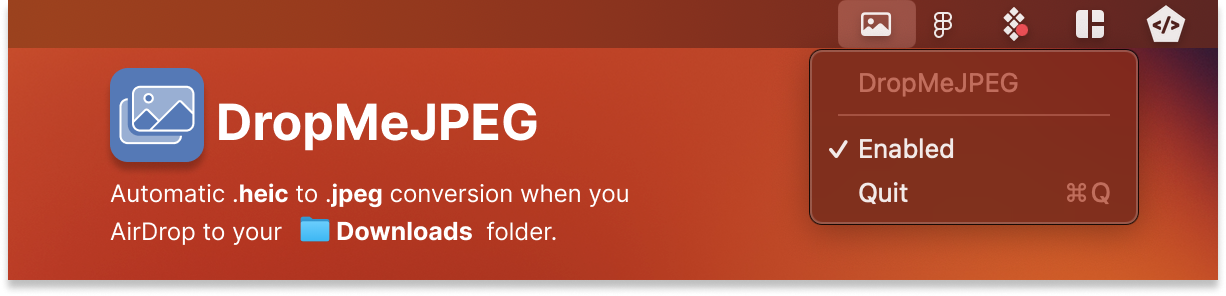
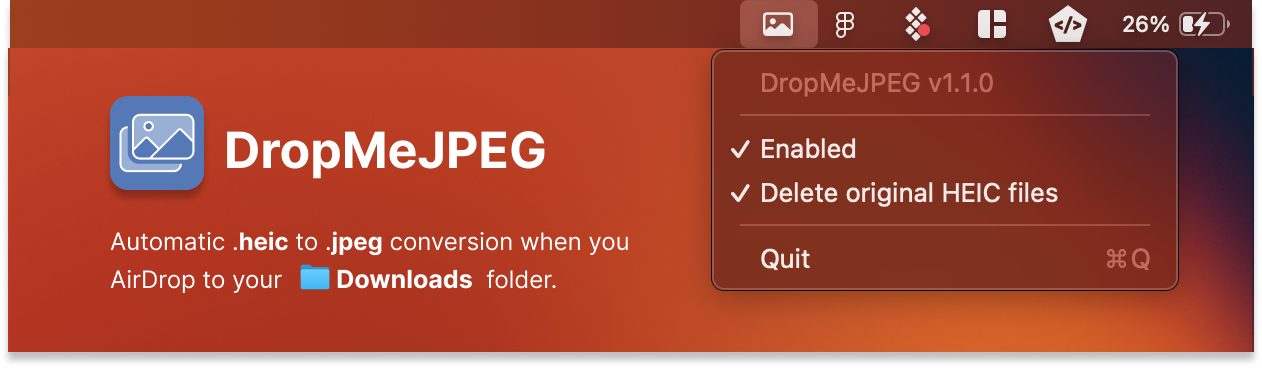
feat(v1.1.0): ability to keep original `.heic` files

Changed region(s): [[0.0, 0.0, 1.0, 0.973], [0.062, 0.2128, 0.4649, 0.5777], [0.062, 0.6081, 0.5269, 0.8209]]

diff --git a/DropMeJPEG/DropMeJPEGApp.swift b/DropMeJPEG/DropMeJPEGApp.swift
@@ -15,13 +15,19 @@ struct DropMeJPEGApp: App {
     
     var body: some Scene {
         MenuBarExtra("DropMeJPEG", systemImage: "photo") {
-            Text("DropMeJPEG").bold()
+            Text("DropMeJPEG v\(Bundle.main.infoDictionary?["CFBundleShortVersionString"] as? String ?? "0.0.0")")
             Divider()
             
             Toggle(isOn: $folderMonitor.isEnabled) {
                 Text(folderMonitor.isEnabled ? "Enabled" : "Disabled")
             }
             
+            Toggle(isOn: $folderMonitor.shouldDeleteOriginal) {
+                Text("Delete original HEIC files")
+            }
+            .disabled(!folderMonitor.isEnabled)
+            
+            Divider()
             Button("Quit") {
                 NSApplication.shared.terminate(nil)
             }.keyboardShortcut("q")
@@ -36,7 +42,8 @@ class FolderMonitor: ObservableObject {
             isEnabled ? startMonitoring() : stopMonitoring()
         }
     }
-    @Published var shouldDeleteOriginalInputFile = false
+    @Published var delayAfterWrite: TimeInterval = 4
+    @Published var shouldDeleteOriginal: Bool = true
     private var folderURL = FileManager.default.urls(for: .downloadsDirectory, in: .userDomainMask).first!
     private var monitor: DispatchSourceFileSystemObject?
     private var fileDescriptor: CInt = -1
@@ -83,23 +90,33 @@ class FolderMonitor: ObservableObject {
     
     /// There are some folder changes, this function will handle detecting new HEIC files and converting them to JPEG.
     private func handleFolderChanges() {
-        guard let currentFiles = try? FileManager.default.contentsOfDirectory(atPath: folderURL.path) else { return }
+        print("\n⚡Folder changed... waiting for \(delayAfterWrite) seconds for AirDrop to finish writing any files.")
+        sleep(UInt32(delayAfterWrite)) // Wait for the file to be fully written
+        
+        guard let currentFiles = try? FileManager.default.contentsOfDirectory(atPath: folderURL.path) else {
+            print("❌ Failed to list files in folder \(folderURL.path)")
+            return
+        }
         let currentSet = Set(currentFiles)
         
         // Detect newly added files
         let newFiles = currentSet.subtracting(knownFiles)
         knownFiles = currentSet
         
+        if newFiles.isEmpty {
+            print("Nothing new to process.\(shouldDeleteOriginal ? " This may have been our own cleanup operation of original HEIC file." : "")")
+            return
+        }
+        
         // Process new HEIC files
         newFiles
             .filter { $0.uppercased().hasSuffix(".HEIC") }
             .map { folderURL.appendingPathComponent($0) }
             .forEach {
-                
                 convertHEICtoJPEG($0)
             }
     }
-        
+    
     /// Conversion from HEIC to JPEG uses the `sips` command line tool that is built-into macOS.
     private func convertHEICtoJPEG(_ fileURL: URL) {
         print("PROCESSING INPUT URL: \(fileURL)")
@@ -125,10 +142,13 @@ class FolderMonitor: ObservableObject {
             if !outputData.isEmpty { print("convertHEICtoJPEG Output: \(String(data: outputData, encoding: .utf8) ?? "")") }
             if !errorData.isEmpty { print("convertHEICtoJPEG Error: \(String(data: errorData, encoding: .utf8) ?? "")") }
             
-            if process.terminationStatus == 0 {
-                try FileManager.default.removeItem(at: fileURL)
+            if process.terminationStatus == 0 && !outputData.isEmpty {
+                if shouldDeleteOriginal {
+                    try FileManager.default.removeItem(at: fileURL)
+                }
+                print("✅ SIPS command succeeded")
             } else {
-                print("SIPS command failed (status: \(process.terminationStatus))")
+                print("❌ SIPS command failed (status: \(process.terminationStatus))")
             }
         } catch {
             print("convertHEICtoJPEG failed: \(error)")

diff --git a/README.md b/README.md
@@ -2,12 +2,30 @@
 
 # DropMeJPEG
 
-MacOS Menu Bar App to automatically convert AirDrop'd `.heic` images to `.jpeg`. It's as simple as opening the app and sending yourself some images via AirDrop. This was a feature I've been wanting, so I built it myself.
+MacOS Menu Bar app to automatically convert AirDrop'd `.heic` images to `.jpeg`. It's as simple as opening the app and sending yourself some images via AirDrop. This was a feature I've been wanting, so I built it myself.
 
-The alternative for me has been to open the `.heic` image in **Preview app** and then export it as a `.jpeg`. As of a recent MacOS update, you can open the image in Finder and right-click to convert it to JPEG.
+> [!NOTE]  
+> The app is working well on my machine, but I am still finalizing a few more things before I release it to the App Store. It will remain free and open-source.
+
+## Why build this?
+
+Until now, the alternative for me has been to open the `.heic` image in **Preview app** and then export it as a `.jpeg` (10+ clicks). As of a recent MacOS update, you can open the image in Finder and right-click to convert it to JPEG (4-5 clicks).
+
+Yes, you can also disable the High-Effeiciency Image Format (HEIF) in the Camera settings. But with our option to keep or delete the original `.heic` files, you can have the best of both worlds.
+
+## Powered by `sips`
+
+To convert images, this app utilizes the Scriptable Image Processing System (sips) which is built-into MacOS. Specifically the `format` command.
+
+```bash
+sips --setProperty format jpeg --out filename.jpeg filename.HEIC
+```
+
+View the [`sips` MAN page](https://ss64.com/mac/sips.html).
 
 ## Changelog
 
-| Date       | Version | Description                              |
-| ---------- | ------- | ---------------------------------------- |
-| 2024-11-28 | 1.0.0   | Initial Release (minimum viable product) |
+| Date       | Version | Description                                |
+| ---------- | ------- | ------------------------------------------ |
+| 2024-11-28 | 1.1.0   | Add ability to keep original `.heic` files |
+| 2024-11-28 | 1.0.0   | Initial Release (minimum viable product)   |
